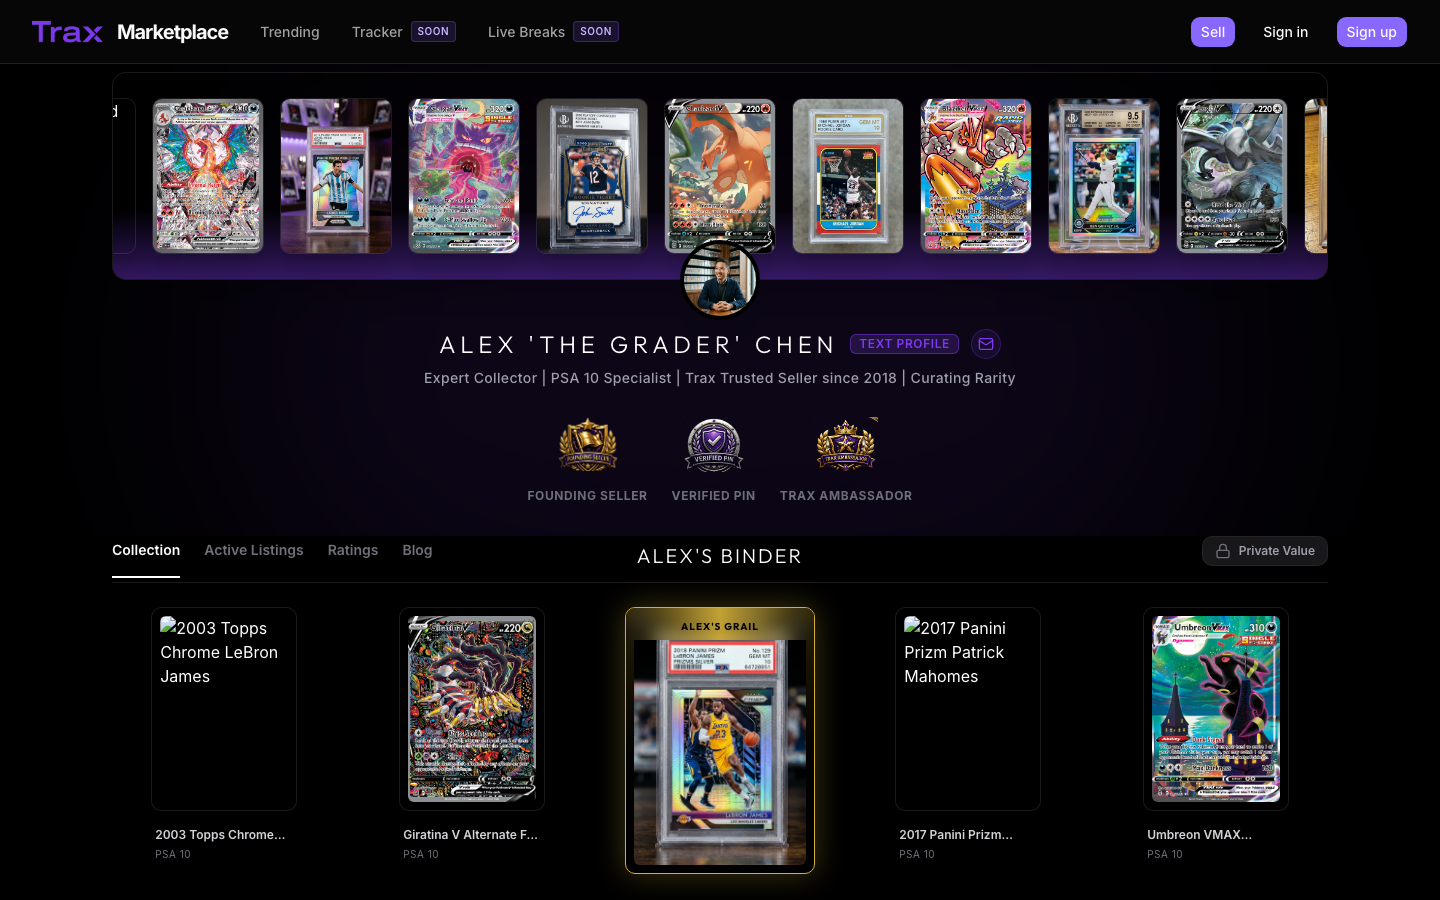
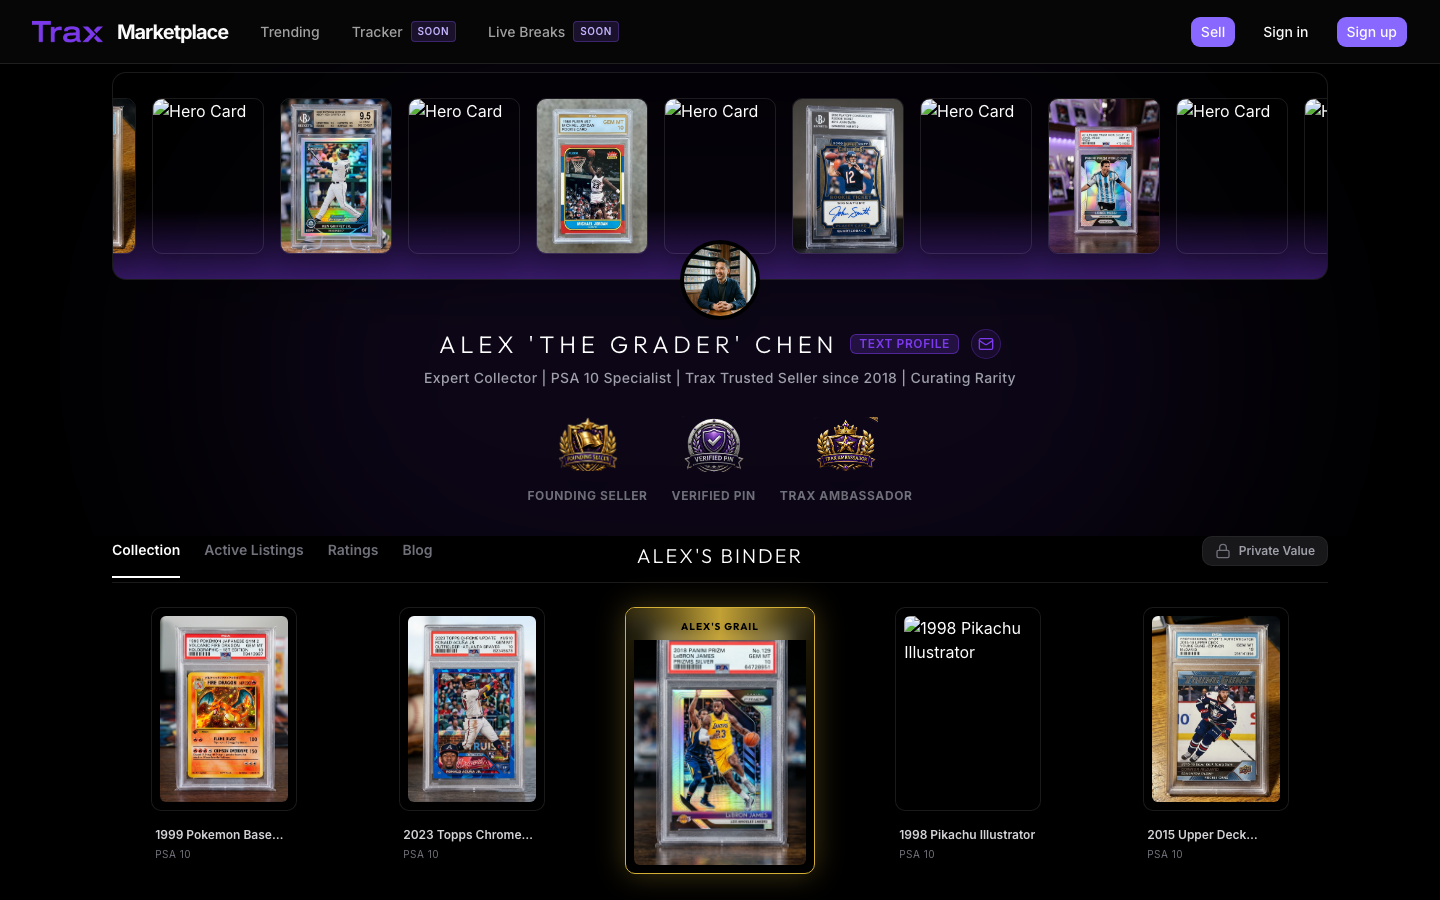
feat: dual photo support for slabbed vs raw pokemon cards

diff --git a/src/lib/mock/listings.ts b/src/lib/mock/listings.ts
@@ -1,21 +1,21 @@
 export const mockListings = [
-  { title: "2018 Panini Prizm Silver Prizm Luka Doncic", photoUrl: "/mock/card_luka_doncic.png", category: "Sports", condition: "Gem Mint", grade: "10", gradingCompany: "PSA" },
-  { title: "1999 Pokemon Base Set Charizard Holo", photoUrl: "/mock/card_charizard.png", category: "Graded", subcategory: "Pokemon", condition: "Gem Mint", grade: "10", gradingCompany: "PSA" },
-  { title: "2023 Topps Chrome Update Sapphire Aaron Judge", photoUrl: "/mock/card_aaron_judge.png", category: "Sports", condition: "Gem Mint", grade: "10", gradingCompany: "PSA" },
-  { title: "1998 Pikachu Illustrator", photoUrl: "/mock/card_pikachu.png", category: "Graded", subcategory: "Pokemon", condition: "Gem Mint", grade: "10", gradingCompany: "PSA" },
-  { title: "2015 Upper Deck Connor McDavid Young Guns", photoUrl: "/mock/card_connor_mcdavid.png", category: "Sports", condition: "Gem Mint", grade: "10", gradingCompany: "PSA" },
-  { title: "2000 Neo Genesis Lugia 1st Edition Holo", photoUrl: "/mock/card_lugia.png", category: "Graded", subcategory: "Pokemon", condition: "Gem Mint", grade: "10", gradingCompany: "PSA" },
-  { title: "2009 Bowman Chrome Mike Trout", photoUrl: "/mock/card_mike_trout.png", category: "Sports", condition: "Gem Mint", grade: "10", gradingCompany: "PSA" },
-  { title: "1999 Pokemon Base Set Mewtwo Shadowless", photoUrl: "/mock/card_mewtwo.png", category: "Graded", subcategory: "Pokemon", condition: "Gem Mint", grade: "10", gradingCompany: "PSA" },
-  { title: "1986 Fleer Michael Jordan Rookie #57", photoUrl: "/mock/card_jordan.png", category: "Sports", condition: "Gem Mint", grade: "10", gradingCompany: "PSA" },
-  { title: "1999 Pokemon Base Set Blastoise Holo", photoUrl: "/mock/card_blastoise.png", category: "Graded", subcategory: "Pokemon", condition: "Gem Mint", grade: "10", gradingCompany: "PSA" },
-  { title: "2000 Playoff Contenders Tom Brady Rookie Ticket Auto", photoUrl: "/mock/card_brady.png", category: "Sports", condition: "Gem Mint", grade: "10", gradingCompany: "PSA" },
-  { title: "1999 Pokemon Base Set Venusaur Holo", photoUrl: "/mock/card_venusaur.png", category: "Graded", subcategory: "Pokemon", condition: "Gem Mint", grade: "10", gradingCompany: "PSA" },
-  { title: "2014 Panini Prizm World Cup Lionel Messi", photoUrl: "/mock/card_messi.png", category: "Sports", condition: "Gem Mint", grade: "10", gradingCompany: "PSA" },
-  { title: "2021 Evolving Skies Umbreon VMAX Alternate Art", photoUrl: "/mock/card_umbreon.png", category: "Graded", subcategory: "Pokemon", condition: "Gem Mint", grade: "10", gradingCompany: "PSA" },
-  { title: "2020 Panini Donruss Optic Justin Herbert", photoUrl: "/mock/card_herbert.png", category: "Sports", condition: "Gem Mint", grade: "10", gradingCompany: "PSA" },
-  { title: "2021 Evolving Skies Rayquaza VMAX Alternate Art", photoUrl: "/mock/card_rayquaza.png", category: "Graded", subcategory: "Pokemon", condition: "Gem Mint", grade: "10", gradingCompany: "PSA" },
-  { title: "2017 Panini Prizm Patrick Mahomes", photoUrl: "/mock/card_mahomes.png", category: "Sports", condition: "Gem Mint", grade: "10", gradingCompany: "PSA" },
-  { title: "2021 Fusion Strike Gengar VMAX Alternate Art", photoUrl: "/mock/card_gengar.png", category: "Graded", subcategory: "Pokemon", condition: "Gem Mint", grade: "10", gradingCompany: "PSA" },
-  { title: "2003 Topps Chrome LeBron James", photoUrl: "/mock/card_lebron.png", category: "Sports", condition: "Gem Mint", grade: "10", gradingCompany: "PSA" }
+  { title: "2018 Panini Prizm Silver Prizm Luka Doncic", photoUrls: ["/mock/card_luka_doncic.png"], category: "Sports", condition: "Gem Mint", grade: "10", gradingCompany: "PSA" },
+  { title: "1999 Pokemon Base Set Charizard Holo", photoUrls: ["/mock/slab_charizard.png", "/mock/raw_charizard.png"], category: "Graded", subcategory: "Pokemon", condition: "Gem Mint", grade: "10", gradingCompany: "PSA" },
+  { title: "2023 Topps Chrome Update Sapphire Aaron Judge", photoUrls: ["/mock/card_aaron_judge.png"], category: "Sports", condition: "Gem Mint", grade: "10", gradingCompany: "PSA" },
+  { title: "1998 Pikachu Illustrator", photoUrls: ["/mock/slab_pikachu.png", "/mock/raw_pikachu.png"], category: "Graded", subcategory: "Pokemon", condition: "Gem Mint", grade: "10", gradingCompany: "PSA" },
+  { title: "2015 Upper Deck Connor McDavid Young Guns", photoUrls: ["/mock/card_connor_mcdavid.png"], category: "Sports", condition: "Gem Mint", grade: "10", gradingCompany: "PSA" },
+  { title: "2000 Neo Genesis Lugia 1st Edition Holo", photoUrls: ["/mock/slab_lugia.png", "/mock/raw_lugia.png"], category: "Graded", subcategory: "Pokemon", condition: "Gem Mint", grade: "10", gradingCompany: "PSA" },
+  { title: "2009 Bowman Chrome Mike Trout", photoUrls: ["/mock/card_mike_trout.png"], category: "Sports", condition: "Gem Mint", grade: "10", gradingCompany: "PSA" },
+  { title: "1999 Pokemon Base Set Mewtwo Shadowless", photoUrls: ["/mock/slab_mewtwo.png", "/mock/raw_mewtwo.png"], category: "Graded", subcategory: "Pokemon", condition: "Gem Mint", grade: "10", gradingCompany: "PSA" },
+  { title: "1986 Fleer Michael Jordan Rookie #57", photoUrls: ["/mock/card_jordan.png"], category: "Sports", condition: "Gem Mint", grade: "10", gradingCompany: "PSA" },
+  { title: "1999 Pokemon Base Set Blastoise Holo", photoUrls: ["/mock/slab_blastoise.png", "/mock/raw_blastoise.png"], category: "Graded", subcategory: "Pokemon", condition: "Gem Mint", grade: "10", gradingCompany: "PSA" },
+  { title: "2000 Playoff Contenders Tom Brady Rookie Ticket Auto", photoUrls: ["/mock/card_brady.png"], category: "Sports", condition: "Gem Mint", grade: "10", gradingCompany: "PSA" },
+  { title: "1999 Pokemon Base Set Venusaur Holo", photoUrls: ["/mock/slab_venusaur.png", "/mock/raw_venusaur.png"], category: "Graded", subcategory: "Pokemon", condition: "Gem Mint", grade: "10", gradingCompany: "PSA" },
+  { title: "2014 Panini Prizm World Cup Lionel Messi", photoUrls: ["/mock/card_messi.png"], category: "Sports", condition: "Gem Mint", grade: "10", gradingCompany: "PSA" },
+  { title: "2021 Evolving Skies Umbreon VMAX Alternate Art", photoUrls: ["/mock/slab_umbreon.png", "/mock/raw_umbreon.png"], category: "Graded", subcategory: "Pokemon", condition: "Gem Mint", grade: "10", gradingCompany: "PSA" },
+  { title: "2020 Panini Donruss Optic Justin Herbert", photoUrls: ["/mock/card_herbert.png"], category: "Sports", condition: "Gem Mint", grade: "10", gradingCompany: "PSA" },
+  { title: "2021 Evolving Skies Rayquaza VMAX Alternate Art", photoUrls: ["/mock/slab_rayquaza.png", "/mock/raw_rayquaza.png"], category: "Graded", subcategory: "Pokemon", condition: "Gem Mint", grade: "10", gradingCompany: "PSA" },
+  { title: "2017 Panini Prizm Patrick Mahomes", photoUrls: ["/mock/card_mahomes.png"], category: "Sports", condition: "Gem Mint", grade: "10", gradingCompany: "PSA" },
+  { title: "2021 Fusion Strike Gengar VMAX Alternate Art", photoUrls: ["/mock/slab_gengar.png", "/mock/raw_gengar.png"], category: "Graded", subcategory: "Pokemon", condition: "Gem Mint", grade: "10", gradingCompany: "PSA" },
+  { title: "2003 Topps Chrome LeBron James", photoUrls: ["/mock/card_lebron.png"], category: "Sports", condition: "Gem Mint", grade: "10", gradingCompany: "PSA" }
 ];

diff --git a/src/lib/db/seed.ts b/src/lib/db/seed.ts
@@ -46,7 +46,11 @@ async function main() {
         createdAt: new Date(Date.now() - i * 1000),
       }).returning({ id: cards.id });
 
-      if (item.photoUrl) {
+      if (item.photoUrls) {
+        for (let j = 0; j < item.photoUrls.length; j++) {
+          await db.insert(itemPhotos).values({ cardId: newCard.id, kind: "front", sortOrder: j, storagePath: item.photoUrls[j] });
+        }
+      } else if (item.photoUrl) {
         await db.insert(itemPhotos).values({ cardId: newCard.id, kind: "front", sortOrder: 0, storagePath: item.photoUrl });
       }
       
@@ -98,7 +102,11 @@ async function main() {
         createdAt: new Date(Date.now() - i * 1000),
       }).returning({ id: cards.id });
 
-      if (item.photoUrl) {
+      if (item.photoUrls) {
+        for (let j = 0; j < item.photoUrls.length; j++) {
+          await db.insert(itemPhotos).values({ cardId: newCard.id, kind: "front", sortOrder: j, storagePath: item.photoUrls[j] });
+        }
+      } else if (item.photoUrl) {
         await db.insert(itemPhotos).values({ cardId: newCard.id, kind: "front", sortOrder: 0, storagePath: item.photoUrl });
       }
 

diff --git a/src/app/[handle]/page.tsx b/src/app/[handle]/page.tsx
@@ -148,7 +148,7 @@ export default async function SellerStorePage(props: Props) {
   // To make the header strip start with Pokemon, we offset by 1.
   const formattedHeroCards = heroCardsData.slice(1, 20).map(item => ({
     id: item.id.toString(),
-    url: (item.photos && item.photos[0]) ? item.photos[0] : 'https://placehold.co/300x400/1a1a1a/333333?text=PSA+10'
+    url: (item.photos && item.photos.length > 1) ? item.photos[1] : (item.photos && item.photos[0]) ? item.photos[0] : 'https://placehold.co/300x400/1a1a1a/333333?text=PSA+10'
   }));
 
   return (
